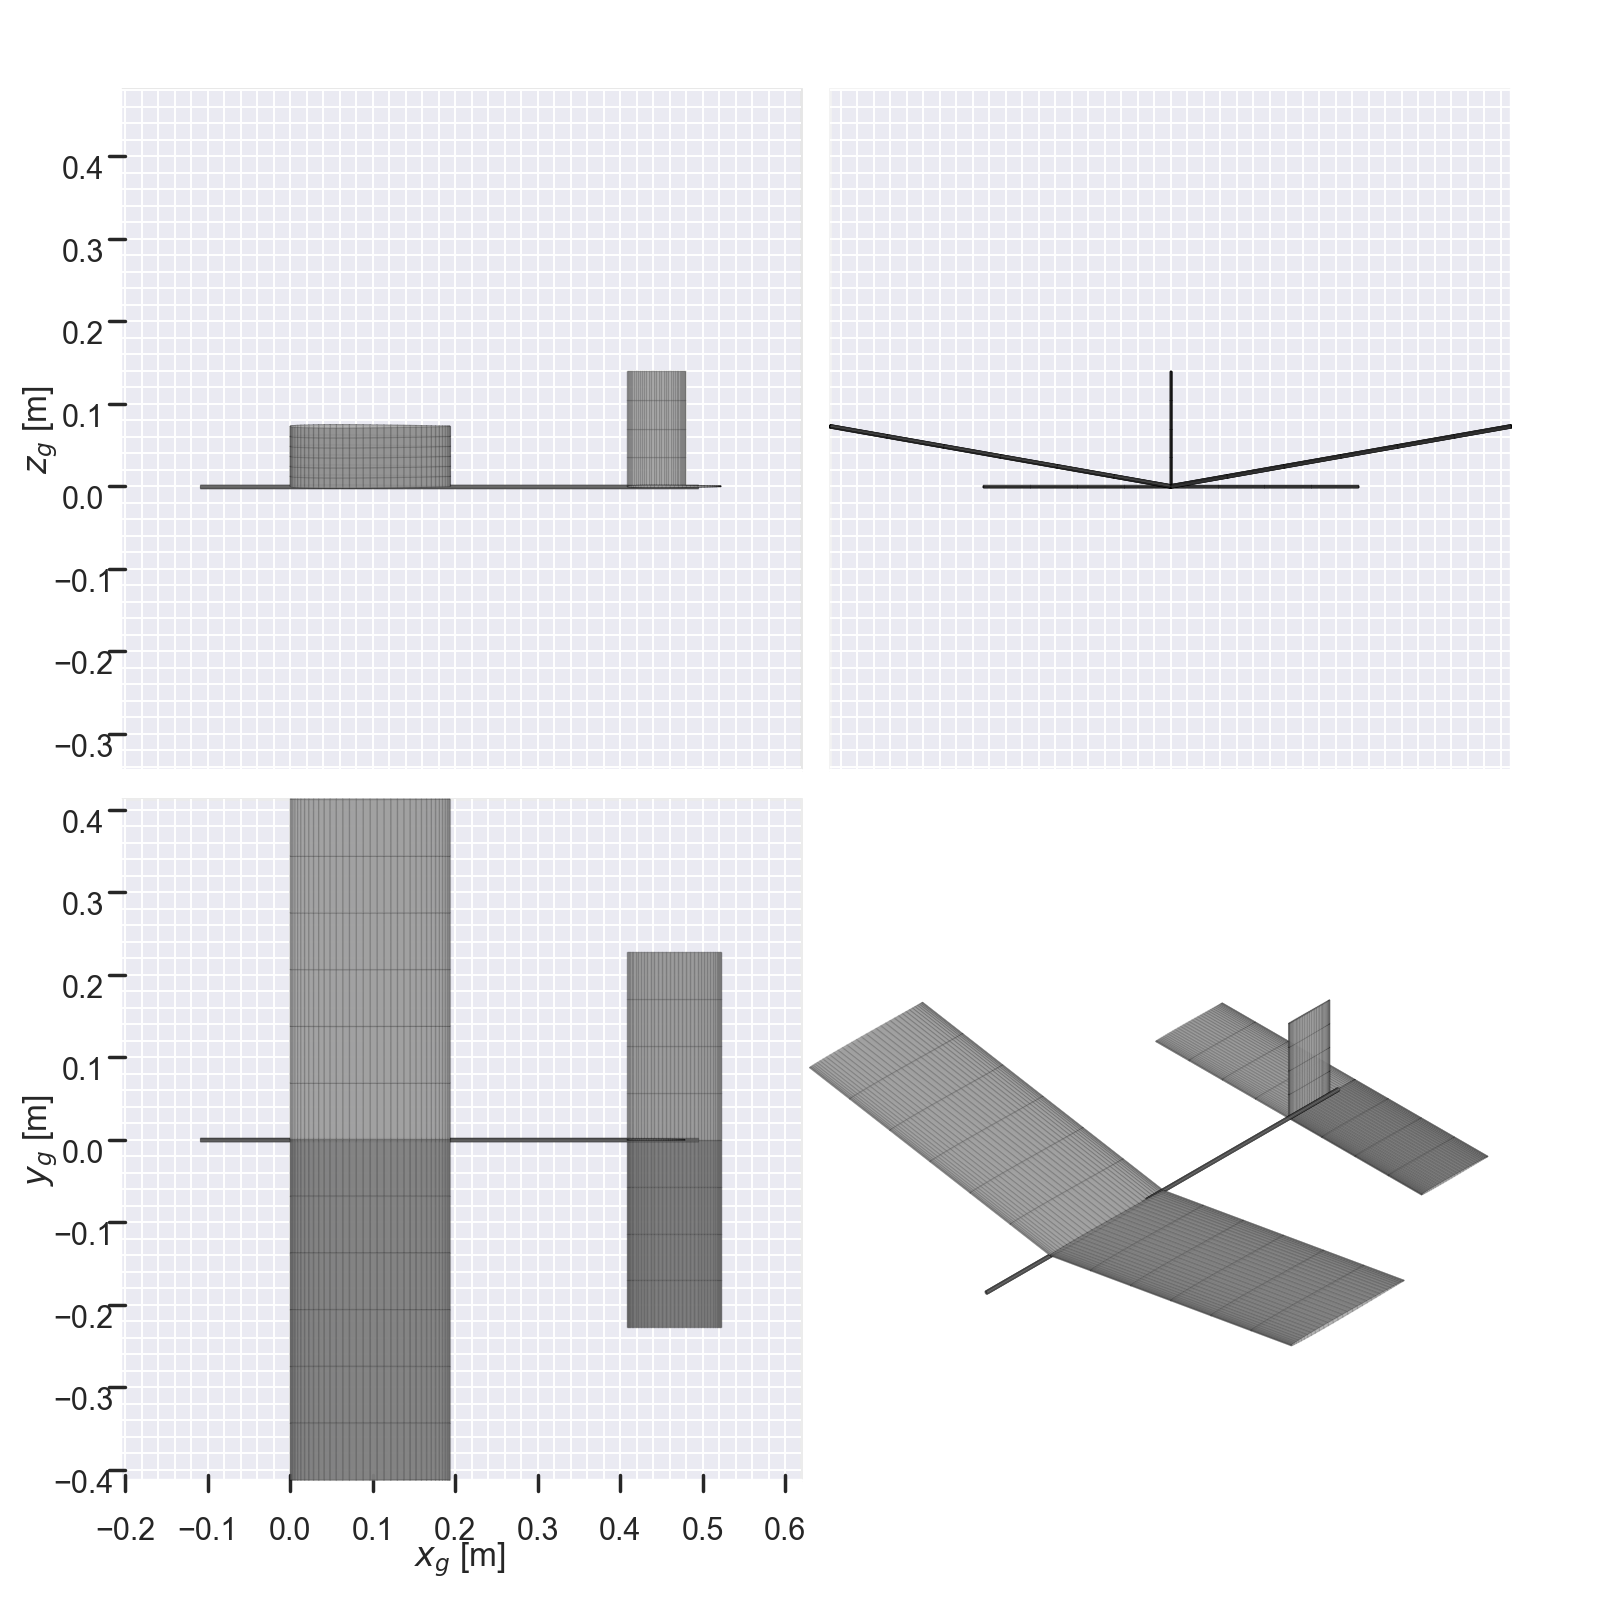
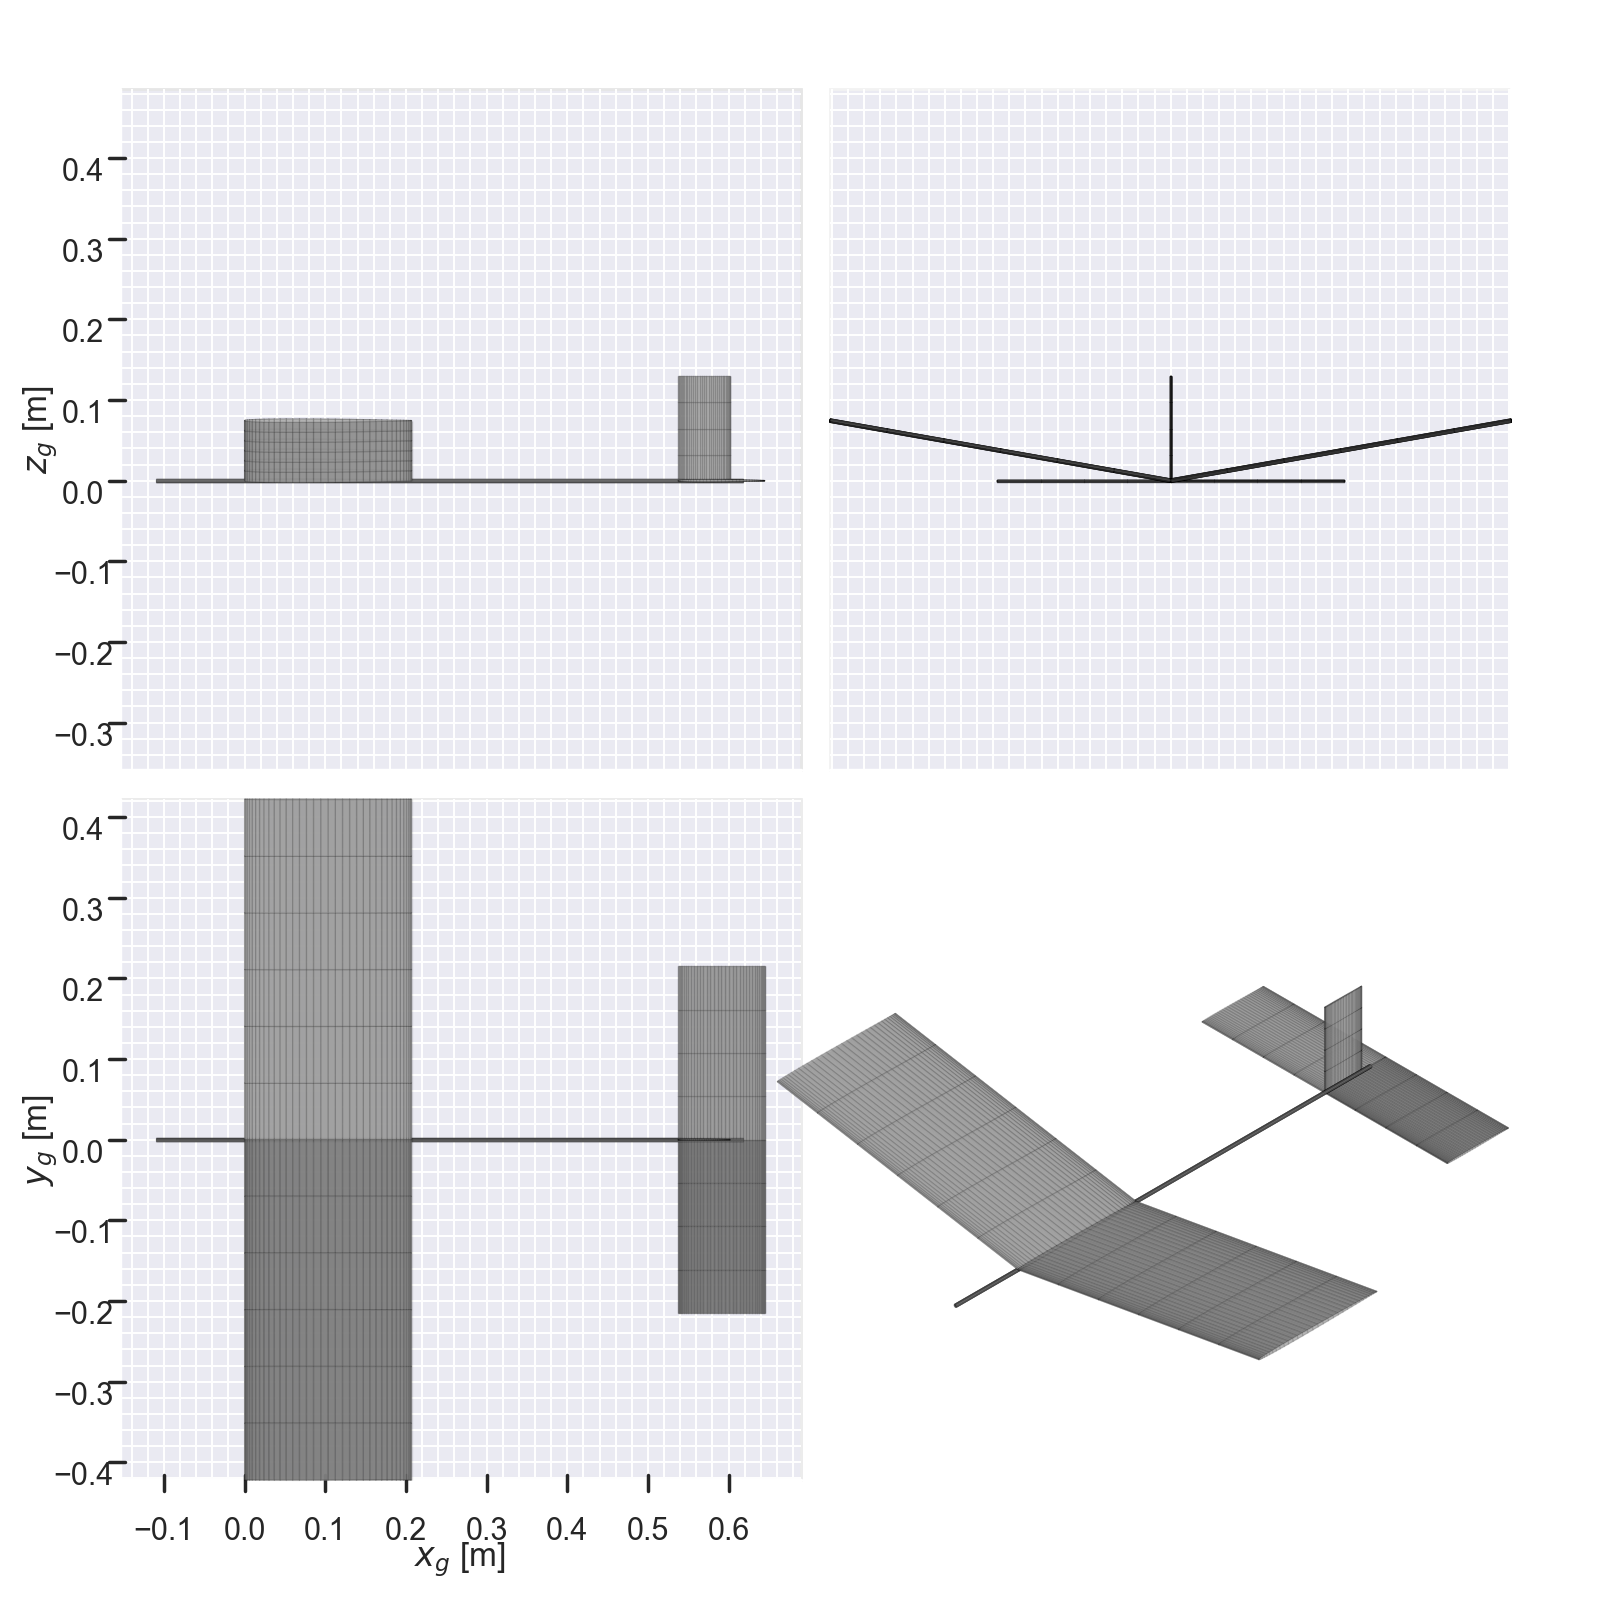
Glider Design v2.0
- Python

diff --git a/02_Glider_Design/nausicaa.py b/02_Glider_Design/nausicaa.py
@@ -26,7 +26,7 @@ GENERATE_POLARS = False
 N_ALPHA = 25
 MAKE_PLOTS = True
 PLOT_DPI = 1000
-RUN_WORKFLOW = False
+RUN_WORKFLOW = True
 
 PRIMARY_AIRFOIL_NAME = "naca0002"
 
@@ -40,7 +40,7 @@ ARENA_WIDTH_M = 4.8
 ARENA_HEIGHT_M = 3.5
 
 # Two-speed design points
-V_TURN_MPS = 4.17
+V_TURN_MPS = 4.15
 V_NOM_MPS = 5.0
 
 # Manoeuvre definition (coordinated, banked turn feasibility)
@@ -768,7 +768,7 @@ def build_mass_model(
         z_m=z_servo,
     )
 
-    boom_end_x_m = tail_arm_m + 0.75 * htail_chord_m
+    boom_end_x_m = tail_arm_m + 0.70 * htail_chord_m
     boom_length_m = np.maximum(boom_end_x_m - NOSE_X_M, 0.05)
     boom_area_m2 = (np.pi / 4.0) * (
         BOOM_TUBE_OUTER_DIAMETER_M**2 - BOOM_TUBE_INNER_DIAMETER_M**2
